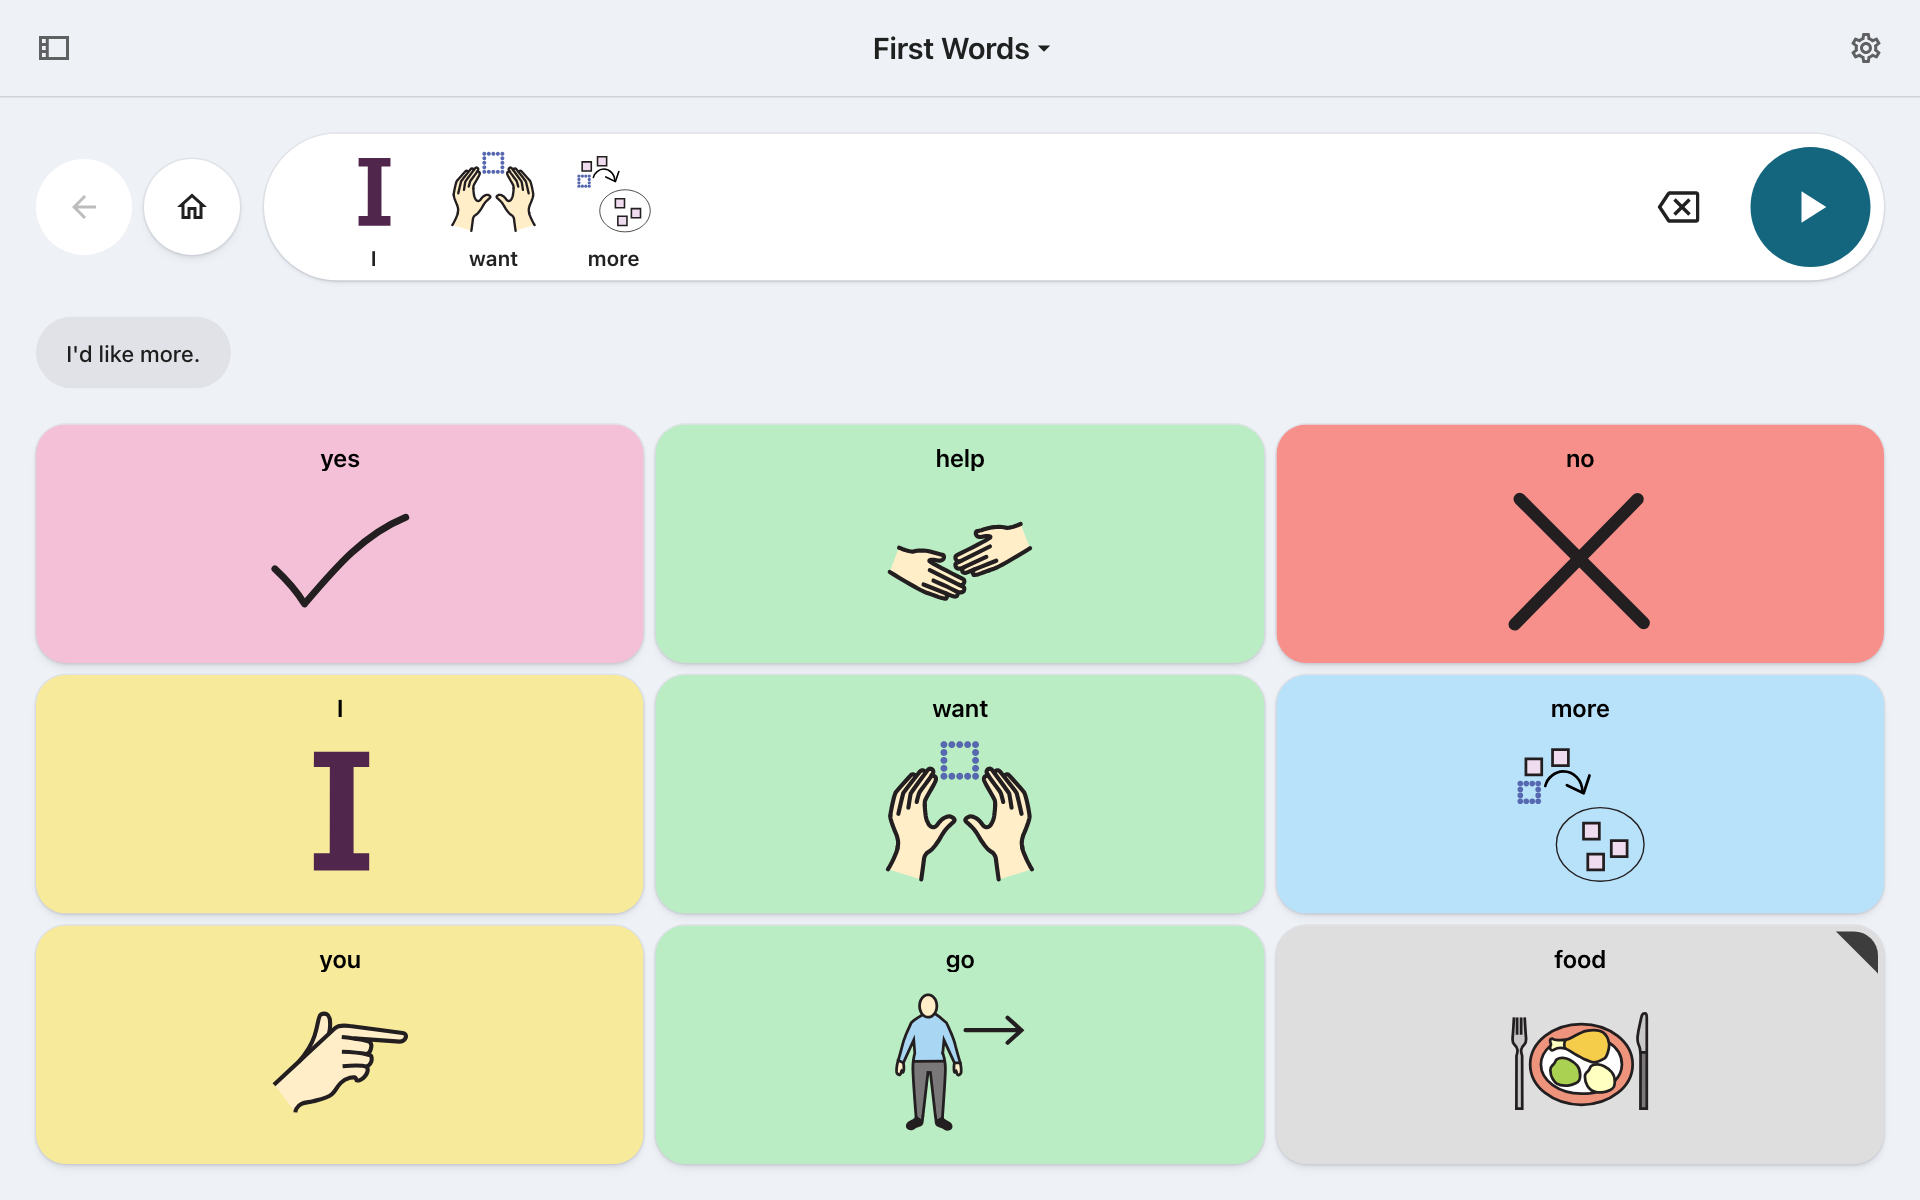
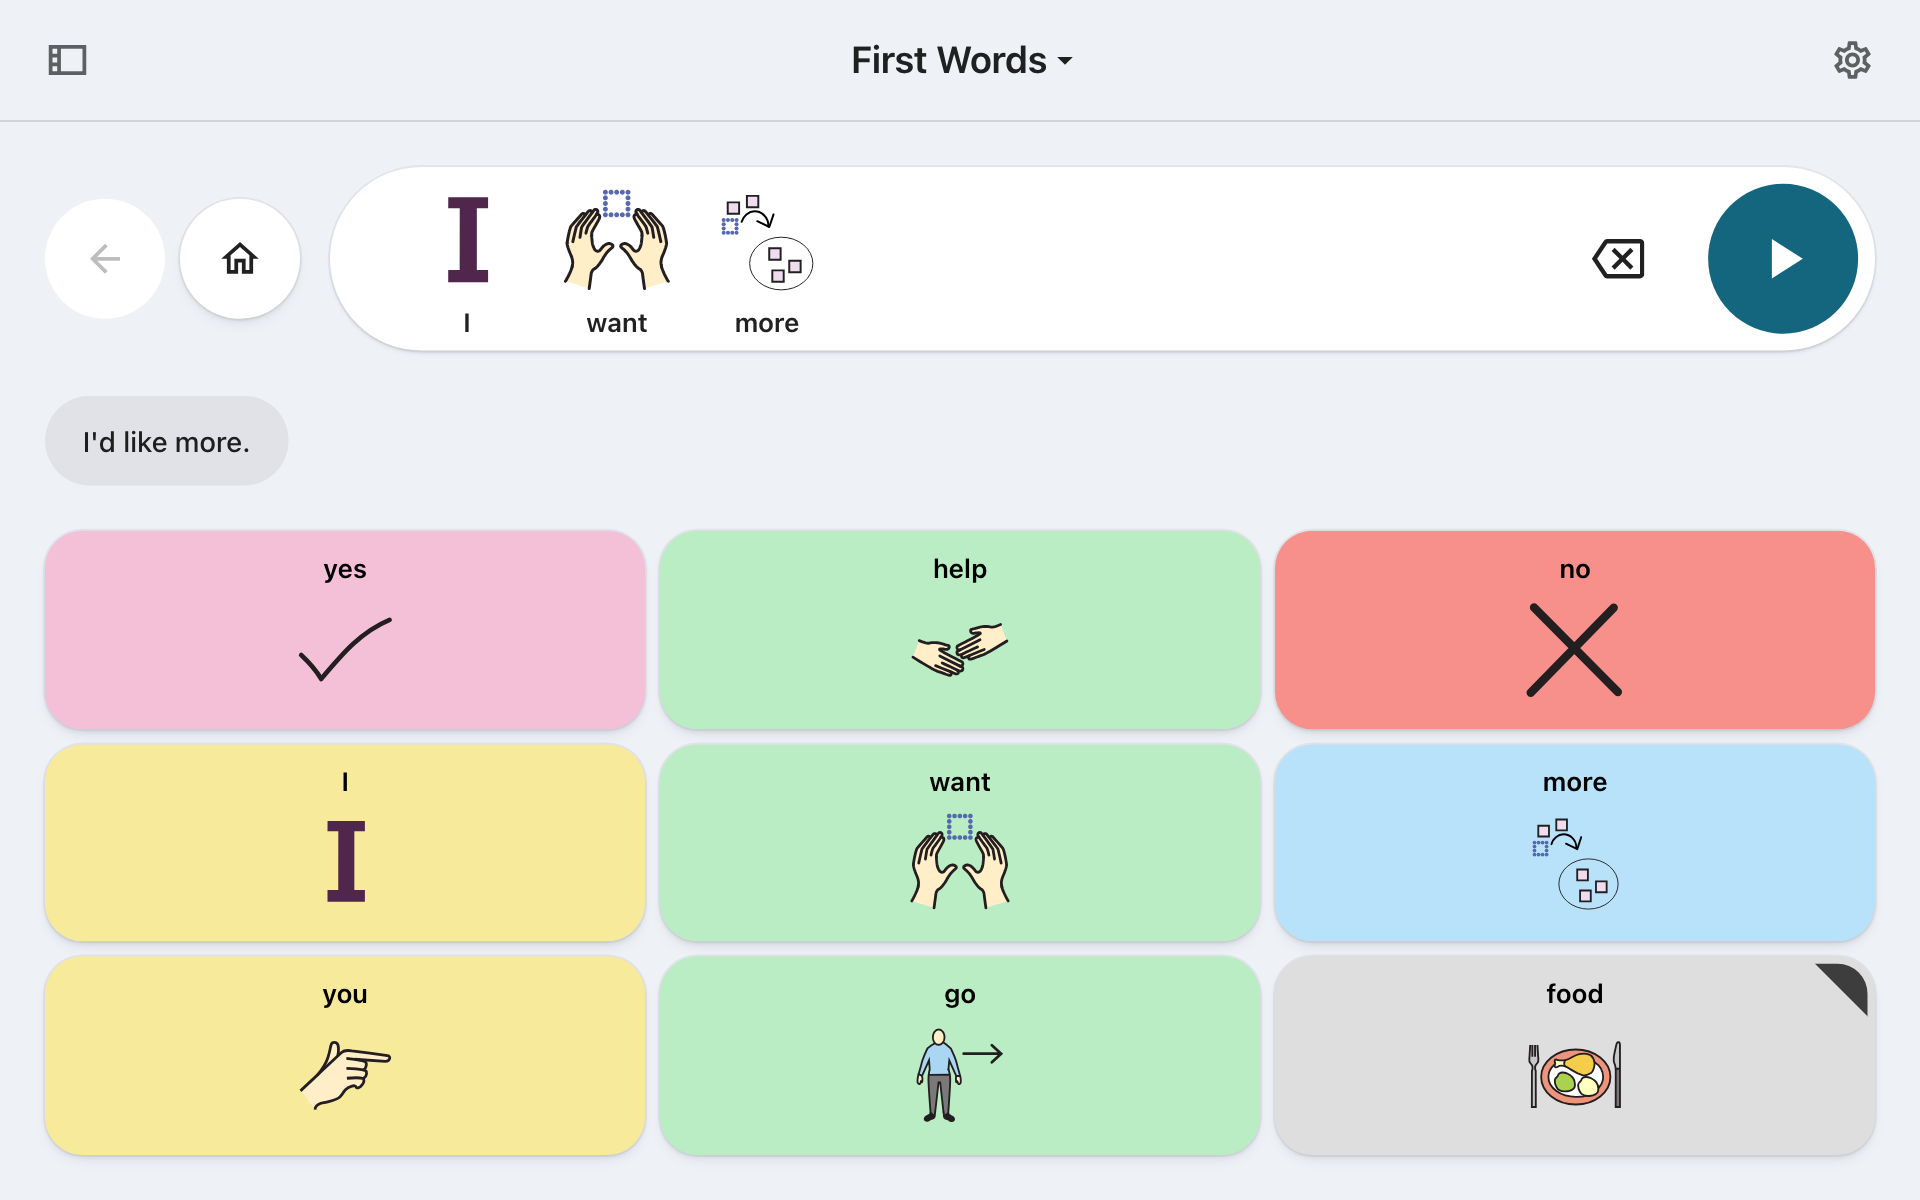
feat: enlarge the wide install screenshot and describe offline use
Chrome's install dialog shrinks the wide screenshot to about 580px, so it
is retaken at a 1024x640 viewport, the smallest where the whole board still
fits, to make labels and the suggestion a quarter larger. The description
now ends on what installing gives a caregiver: offline use with no account,
ads or tracking.

diff --git a/vite.config.ts b/vite.config.ts
@@ -54,7 +54,7 @@ export default defineConfig({
         name: "AAC Board AI",
         short_name: "AAC Board",
         description:
-          "A free communication board for people who cannot rely on speech. Tap symbols to build a message and hear it spoken aloud, with optional on-device AI suggestions.",
+          "A free communication board for people who cannot rely on speech. Tap symbols to build a message and hear it spoken aloud. Works offline, with no account, ads or tracking.",
         id: "/",
         start_url: "/",
         display: "standalone",

diff --git a/index.html b/index.html
@@ -11,7 +11,7 @@
     <title>AAC Board AI</title>
     <meta
       name="description"
-      content="A free communication board for people who cannot rely on speech. Tap symbols to build a message and hear it spoken aloud, with optional on-device AI suggestions."
+      content="A free communication board for people who cannot rely on speech. Tap symbols to build a message and hear it spoken aloud. Works offline, with no account, ads or tracking."
     />
 
     <meta name="color-scheme" content="light dark" />
